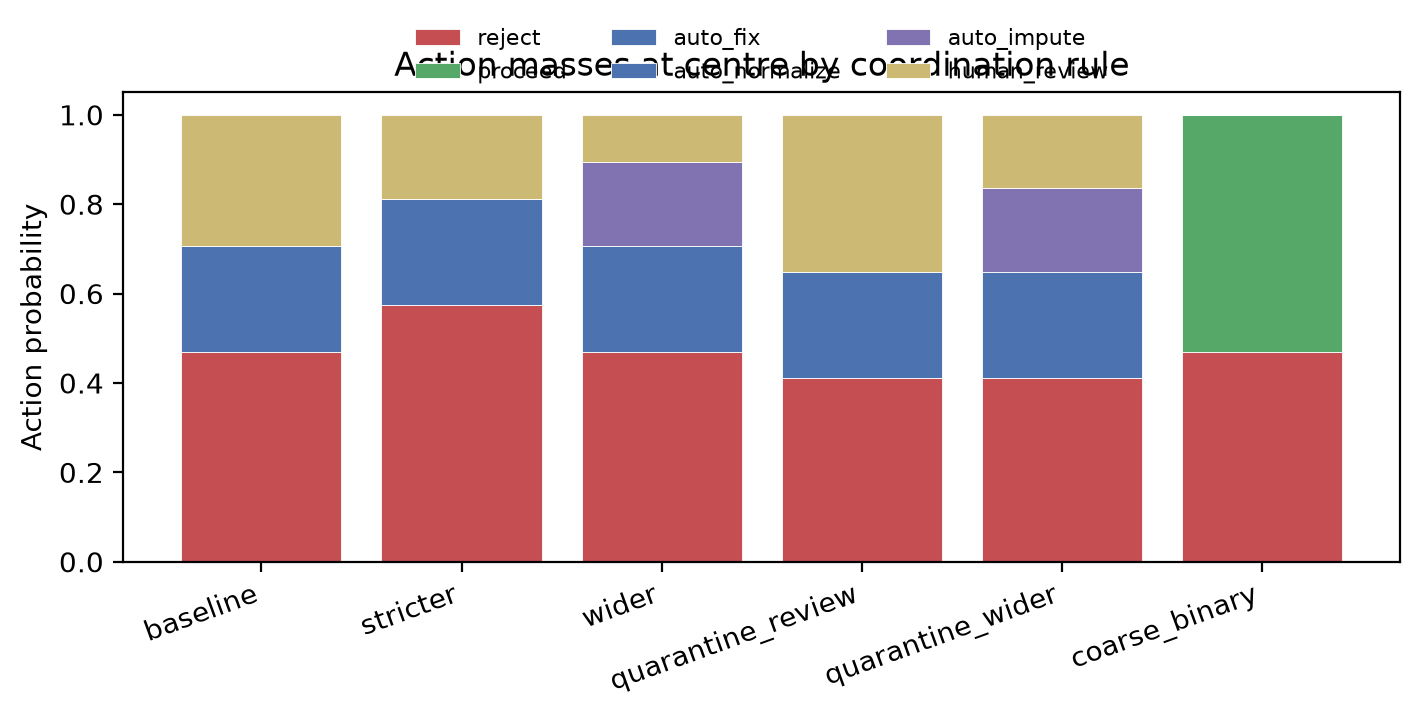
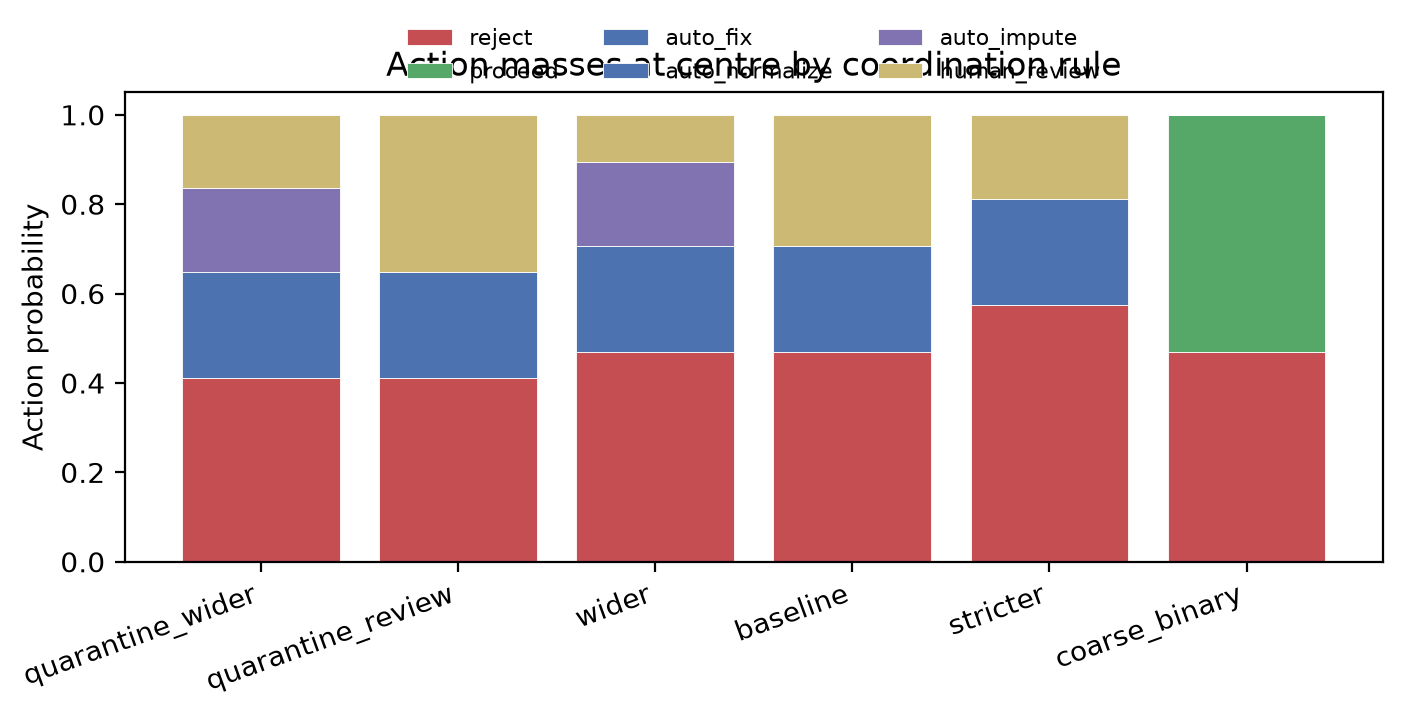
feat(coord-fisher): sort centre figures by ascending tr_loss
Re-run paper_experiments with all seven rules; fig_loss_center and
fig_action_masses order rules by increasing information loss.

diff --git a/examples/three_agent_cleaning/paper_experiments.py b/examples/three_agent_cleaning/paper_experiments.py
@@ -122,9 +122,8 @@ def ensure_center_on_grid(rows: list[dict[str, object]]) -> list[dict[str, objec
 
 def fig_loss_at_center(centre: list[dict[str, object]]) -> None:
     FIG_DIR.mkdir(parents=True, exist_ok=True)
-    order = [r[0] for r in __import__("system", fromlist=["RULE_SPECS"]).RULE_SPECS]
     by_rule = {str(row["rule"]): row for row in centre}
-    names = [name for name in order if name in by_rule]
+    names = sorted(by_rule, key=lambda name: float(by_rule[name]["tr_loss"]))
     losses = [float(by_rule[name]["tr_loss"]) for name in names]
     retained = [float(by_rule[name]["tr_I_A"]) for name in names]
 
@@ -228,7 +227,11 @@ def fig_loss_curves(rows: list[dict[str, object]]) -> None:
 def fig_action_masses(centre: list[dict[str, object]]) -> None:
     FIG_DIR.mkdir(parents=True, exist_ok=True)
     # Collect union of action labels (exclude near_identity — too many labels).
-    rules = [r for r in STACK_RULES]
+    by_rule_pre = {str(row["rule"]): row for row in centre}
+    rules = sorted(
+        [r for r in STACK_RULES if r in by_rule_pre],
+        key=lambda name: float(by_rule_pre[name]["tr_loss"]),
+    )
     label_set: list[str] = []
     for row in centre:
         if row["rule"] not in rules:
